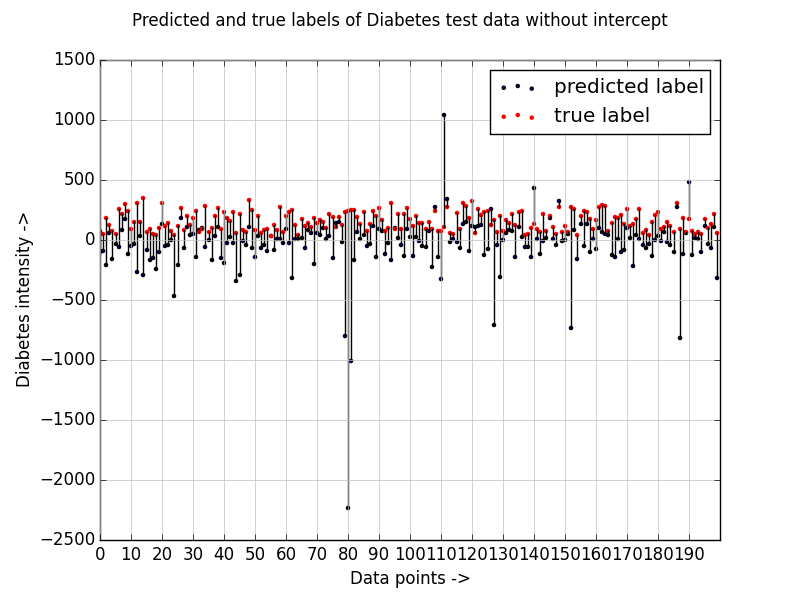
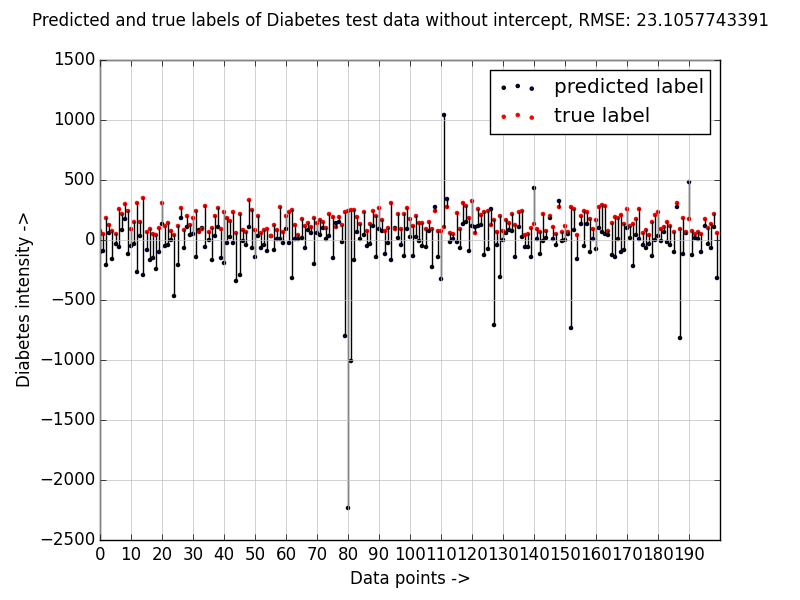
pca

Changed region(s): [[0.0312, 0.0, 0.9688, 0.06]]

diff --git a/ridge_regression.py b/ridge_regression.py
@@ -10,6 +10,7 @@ import pickle
 from matplotlib.patches import Ellipse
 from pylab import savefig
 from mpl_toolkits.mplot3d import Axes3D
+from linear_regression import testOLERegression
 
 def learnRidgeRegression(X,y,lambd):
     # Inputs:
@@ -18,19 +19,10 @@ def learnRidgeRegression(X,y,lambd):
     # lambd = ridge parameter (scalar)
     # Output:                                                                  
     # w = d x 1                                                                
-    # IMPLEMENT THIS METHOD                                                   
+    # IMPLEMENT THIS METHOD         
+    N = X.shape[0]                                          
     id_mat = np.identity(X.shape[1])
-    return np.dot(np.dot(linalg.inv(lambd*id_mat + np.dot(X.T, X)), X.T), y)
-
-def testOLERegression(w,Xtest,ytest):
-    # Inputs:
-    # w = d x 1
-    # Xtest = N x d
-    # ytest = X x 1 (? N x 1)
-    # Output:
-    # rmse
-    # IMPLEMENT THIS METHOD
-    return np.sqrt(np.mean(np.square(ytest - np.dot(Xtest, w))))
+    return np.dot(np.dot(linalg.inv(N*lambd*id_mat + np.dot(X.T, X)), X.T), y)
 
 def regressionObjVal(w, X, y, lambd):
 
@@ -38,14 +30,17 @@ def regressionObjVal(w, X, y, lambd):
     # to w (vector) for the given data X and y and the regularization parameter
     # lambda                                                                  
 
-    # IMPLEMENT THIS METHOD                                             
+    # IMPLEMENT THIS METHOD                                           
+    N = X.shape[0]  
+    error = np.sqrt(np.sum(np.square(ytest - np.dot(X, w))))/(2*N) + 0.5*lambd*np.dot(w.T,w)
+    error_grad = np.dot(y.T,X)/(-2*N) + np.dot(w.T,np.dot(X.T,X))/N + lambd*w.T
     return error, error_grad
 
 #------------------Script starts here-----------------------
 
 plt.close('all')    
-k = 400 
-lambdas = np.linspace(0, 1, num=k)
+k = 200
+lambdas = np.linspace(0, 0.004, num=k)
 X,y,Xtest,ytest = pickle.load(open('diabetes.pickle','rb'))   
 # add intercept
 X_i = np.concatenate((np.ones((X.shape[0],1)), X), axis=1)
@@ -53,10 +48,17 @@ Xtest_i = np.concatenate((np.ones((Xtest.shape[0],1)), Xtest), axis=1)
 
 i = 0
 rmses3 = np.zeros((k,1))
+w_mag = np.zeros((k,1))
 for lambd in lambdas:
     w_l = learnRidgeRegression(X_i,y,lambd)
+    w_mag[i] = np.log(np.dot(w_l.T,w_l)[0,0])
     rmses3[i] = testOLERegression(w_l,Xtest_i,ytest)
     i = i + 1
+
+minrmse = np.min(rmses3)
+argminrmse = lambdas[np.argmin(rmses3)]
+print "minimum rmse value, ridge regress: ", minrmse
+print "minimum rmse for lamba:", argminrmse
 
 #lambda_ = 0.4
 #w_l = learnRidgeRegression(X_i,y,lambda_)
@@ -64,9 +66,45 @@ for lambd in lambdas:
 #print('RMSE value at ' + str(lambda_) + ': ' + str(rmse))
 fig = plt.figure()
 plt.plot(lambdas,rmses3)
-
-fig.suptitle('Variation of RMSE with regularization paramter, lambda')
+fig.suptitle('Variation of RMSE with regularization paramter,\n min RMSE: '
++str(minrmse)+' at '+str(argminrmse))
 plt.xlabel('lambda ->')
 plt.ylabel('RMSE ->')
 fig.show()
 savefig('results/ridge_regress_lambda.png',format='png')
+
+fig = plt.figure()
+plt.plot(lambdas,w_mag)
+fig.suptitle('Variation of ln(||W||) with regularization paramter')
+plt.xlabel('lambda ->')
+plt.ylabel('ln(||W||) ->')
+fig.show()
+savefig('results/ridge_regress_weight.png',format='png')
+
+# Gradient Descent
+
+k = 21
+lambdas = np.linspace(0, 0.004, num=k)
+i = 0
+rmses4 = np.zeros((k,1))
+w_mag4 = np.zeros((k,1))
+opts = {'maxiter' : 100}    # Preferred value.                                                
+w_init = np.zeros((X_i.shape[1],1))
+for lambd in lambdas:
+    args = (X_i, y, lambd)
+    w_l = minimize(regressionObjVal, w_init, X, y, lambd, jac=True, args=args,method='CG', options=opts)
+    w_l_1 = np.zeros((X_i.shape[1],1))
+    for j in range(len(w_l.x)):
+        w_l_1[j] = w_l.x[j]
+    w_mag4[i] = np.log(np.dot(w_l_1.T,w_l_1)[0,0])
+    rmses4[i] = testOLERegression(w_l_1,Xtest_i,ytest)
+    i = i + 1
+minrmse4 = np.min(rmses3)
+argminrmse4 = lambdas[np.argmin(rmses4)]
+print "minimum rmse value, ridge regress: ", minrmse4
+print "minimum rmse for lamba:", argminrmse4
+
+plt.plot(lambdas,rmses4,'RMSE with regularization paramter(Gradient Descent),\n min RMSE: '
++str(minrmse)+' at '+str(argminrmse))
+plt.xlabel('lambda ->')
+plt.ylabel('RMSE ->')

diff --git a/pca.py b/pca.py
@@ -1,0 +1,111 @@
+import numpy as np
+from linear_regression import learnOLERegression,testOLERegression
+import scipy.linalg as linalg
+import matplotlib.pyplot as plt
+import pickle
+from ridge_regression import learnRidgeRegression
+
+# Low rank approximation of diabetes train data
+def low_rank_approx(X,r):
+    U, s, Vh = linalg.svd(X)
+    s [r:] = 0
+    sk = linalg.diagsvd(s, U.shape[1], Vh.shape[0])
+    X_app = np.dot(U, np.dot(sk, Vh))
+    X_app = X_app[:,:r]
+    return X_app
+
+#----------------Script starts here---------------------------
+plt.close('all')
+
+X,y,Xtest,ytest = pickle.load(open('diabetes.pickle','rb'))   
+# add intercept
+X_i = np.concatenate((np.ones((X.shape[0],1)), X), axis=1)
+Xtest_i = np.concatenate((np.ones((Xtest.shape[0],1)), Xtest), axis=1)
+
+X_app = low_rank_approx(X,10)
+Xtest_app = low_rank_approx(Xtest,10)
+
+#plt.scatter(X_app,y,c='b',label='train')
+#plt.scatter(Xtest_app,ytest,c='r',label='test')
+#plt.legend()
+#plt.show()
+
+# add intercept
+X_app = np.concatenate((np.ones((X_app.shape[0],1)),X_app),axis=1)
+Xtest_app = np.concatenate((np.ones((Xtest_app.shape[0],1)),Xtest_app),axis=1)
+w = learnOLERegression(X_app,y)
+y_pred = np.dot(Xtest_app,w)
+rmse = testOLERegression(w,Xtest_app,ytest)
+print "rmse value: ",rmse
+
+# Show predicted data
+fig = plt.figure()
+ax = plt.gca()
+ax.grid(True,linestyle='-',color='0.75')
+ax.set_xlim([0, 200])
+ax.set_xticks(np.arange(0,200,10))
+plt.scatter(range(Xtest_i.shape[0]),y_pred, label='predicted label',marker='.')
+plt.scatter(range(Xtest_i.shape[0]),ytest, label='true label',color='r',marker='.')
+for i in range(0,Xtest_i.shape[0]):
+    plt.plot([i, i], [y_pred[i],ytest[i]],color='black')
+fig.suptitle('Predicted and true labels test data (11-D with intercept), RMSE: ' +str(rmse))
+plt.xlabel('Data points ->')
+plt.ylabel('Diabetes intensity ->')
+plt.legend()
+fig.show()
+
+#Ridge Regression
+k = 200
+lambdas = np.linspace(0, 0.004, num=k)
+i = 0
+rmses3 = np.zeros((k,1))
+w_mag = np.zeros((k,1))
+for lambd in lambdas:
+    w_l = learnRidgeRegression(X_app,y,lambd)
+    w_mag[i] = np.log(np.dot(w_l.T,w_l)[0,0])
+    rmses3[i] = testOLERegression(w_l,Xtest_app,ytest)
+    i = i + 1
+minrmse = np.min(rmses3)
+argminrmse = lambdas[np.argmin(rmses3)]
+print "minimum rmse value, ridge regress: ", minrmse
+print "minimum rmse for lamba:", argminrmse
+fig = plt.figure()
+plt.plot(lambdas,rmses3)
+fig.suptitle('Variation of RMSE(11-D) with regularization paramter,\n min RMSE: '
++str(minrmse)+' at '+str(argminrmse))
+plt.xlabel('lambda ->')
+plt.ylabel('RMSE ->')
+fig.show()
+fig = plt.figure()
+plt.plot(lambdas,w_mag)
+fig.suptitle('Variation of ln(||W||) (11-D) with regularization paramter')
+plt.xlabel('lambda ->')
+plt.ylabel('ln(||W||) ->')
+fig.show()
+
+## Plot 3-d reduced
+'''
+xx, yy = np.meshgrid(np.linspace(np.min(Xtest_app[:,1]),np.max(Xtest_app[:,1]),50),
+np.linspace(np.min(Xtest_app[:,2]),np.max(Xtest_app[:,2]),50))
+grid = np.vstack((xx.reshape(xx.size),yy.reshape(yy.size))).T
+
+## add intercept in grid
+grid = np.concatenate((np.ones((grid.shape[0],1)), grid), axis=1)
+
+y_grid = np.dot(grid,w)
+y_mesh = y_grid.reshape(xx.shape[0],yy.shape[0])
+
+#colors = [cm.rainbow(np.linspace(0,1,np.unique(y_dt_train).size))]
+fig = plt.figure()
+ax = fig.add_subplot(111, projection='3d')
+#ax.scatter(grid[:,0],grid[:,1],zs=y_grid)
+ax.plot_wireframe(xx,yy,y_mesh,label='ole plane')
+ax.scatter(Xtest_app[:,1],Xtest_app[:,2],zs=y_pred,color='red',s=40,label='predicted test values')
+ax.scatter(Xtest_app[:,1],Xtest_app[:,2],zs=ytest,color='green',s=40,label='true test values')
+fig.suptitle('Diabetes data(with intercept added) in 2-D (with intercept as 3rd D) , RMSE: ' +str(rmse))
+ax.set_xlabel("reduced dim-1")
+ax.set_ylabel("reduced dim-2")
+ax.set_zlabel("diabetes intensity")
+plt.legend()
+fig.show()
+'''

diff --git a/linear_regression.py b/linear_regression.py
@@ -28,7 +28,8 @@ def testOLERegression(w,Xtest,ytest):
     # Output:
     # rmse
     # IMPLEMENT THIS METHOD
-    return np.sqrt(np.sum(np.square(ytest - np.dot(Xtest, w))))/Xtest.shape[0]
+    N = Xtest.shape[0]
+    return np.sqrt(np.sum(np.square(ytest - np.dot(Xtest, w))))/N
 
 
 #--------------------Script starts here-------------------------
@@ -41,7 +42,7 @@ Xtest_i = np.concatenate((np.ones((Xtest.shape[0],1)), Xtest), axis=1)
 
 w = learnOLERegression(X,y)
 mle = testOLERegression(w,Xtest,ytest)
-
+print "||W|| without intercept: ", np.dot(w.T,w)[0,0]
 # Show predicted data
 fig = plt.figure()
 y_pred = np.dot(Xtest,w)
@@ -53,16 +54,17 @@ plt.scatter(range(Xtest.shape[0]),y_pred, label='predicted label',marker='.')
 plt.scatter(range(Xtest.shape[0]),ytest, label='true label',color='r',marker='.')
 for i in range(0,Xtest.shape[0]):
     plt.plot([i, i], [y_pred[i],ytest[i]],color='black')
-fig.suptitle('Predicted and true labels of Diabetes test data without intercept')
+fig.suptitle('Predicted and true labels of Diabetes test data without intercept, RMSE: ' +str(mle))
 plt.xlabel('Data points ->')
 plt.ylabel('Diabetes intensity ->')
 plt.legend()
 fig.show()
-#savefig("results/ole_no_intercept.png", format="png")
+savefig("results/ole_no_intercept.png", format="png")
 
 w_i = learnOLERegression(X_i,y)
 mle_i = testOLERegression(w_i,Xtest_i,ytest)
 y_pred = np.dot(Xtest_i,w_i)
+print "||W|| with intercept: ", np.dot(w_i.T,w_i)[0,0]
 # Show predicted data
 fig = plt.figure()
 ax = plt.gca()
@@ -73,49 +75,13 @@ plt.scatter(range(Xtest_i.shape[0]),y_pred, label='predicted label',marker='.')
 plt.scatter(range(Xtest_i.shape[0]),ytest, label='true label',color='r',marker='.')
 for i in range(0,Xtest_i.shape[0]):
     plt.plot([i, i], [y_pred[i],ytest[i]],color='black')
-fig.suptitle('Predicted and true labels of Diabetes test data (with intercept)')
+fig.suptitle('Predicted and true labels of Diabetes test data (with intercept), RMSE: ' +str(mle_i))
 plt.xlabel('Data points ->')
 plt.ylabel('Diabetes intensity ->')
 plt.legend()
-#fig.show()
+fig.show()
 savefig("results/ole_with_intercept.png", format="png")
 
 print('RMSE without intercept '+str(mle))
 print('RMSE with intercept '+str(mle_i))
 
-'''
-# Low rank approximation of diabetes train data
-def low_rank_approx(X,r):
-    U, s, Vh = linalg.svd(X)
-    s [r:] = 0
-    sk = linalg.diagsvd(s, U.shape[1], Vh.shape[0])
-    X_app = np.dot(U, np.dot(sk, Vh))
-    X_app = X_app[:,:r]
-    return X_app
-
-X_app = low_rank_approx(X,2)
-Xtest_app = low_rank_approx(Xtest,2)
-w = learnOLERegression(X_app,y)
-
-xx, yy = np.meshgrid(np.linspace(np.min(Xtest_app[:,0]),np.max(Xtest_app[:,0]),50),
-np.linspace(np.min(Xtest_app[:,1]),np.max(Xtest_app[:,1]),50))
-grid = np.vstack((xx.reshape(xx.size),yy.reshape(yy.size))).T
-
-y_grid = np.dot(grid,w)
-y_pred = np.dot(Xtest_app,w)
-y_mesh = y_grid.reshape(xx.shape[0],yy.shape[0])
-#colors = [cm.rainbow(np.linspace(0,1,np.unique(y_dt_train).size))]
-fig = plt.figure()
-ax = fig.add_subplot(111, projection='3d')
-#ax.scatter(grid[:,0],grid[:,1],zs=y_grid)
-ax.plot_wireframe(xx,yy,y_mesh,label='ole plane')
-ax.scatter(Xtest_app[:,0],Xtest_app[:,1],zs=y_pred,color='red',s=40,label='predicted test values')
-ax.scatter(Xtest_app[:,0],Xtest_app[:,1],zs=ytest,color='green',s=40,label='true test values')
-fig.suptitle('Diabetes data in 2-D with PCA and corresponding plane learnt(without intercept)')
-ax.set_xlabel("reduced dim-1")
-ax.set_ylabel("reduced dim-2")
-ax.set_zlabel("diabetes intensity")
-plt.legend()
-fig.show()
-
-'''
